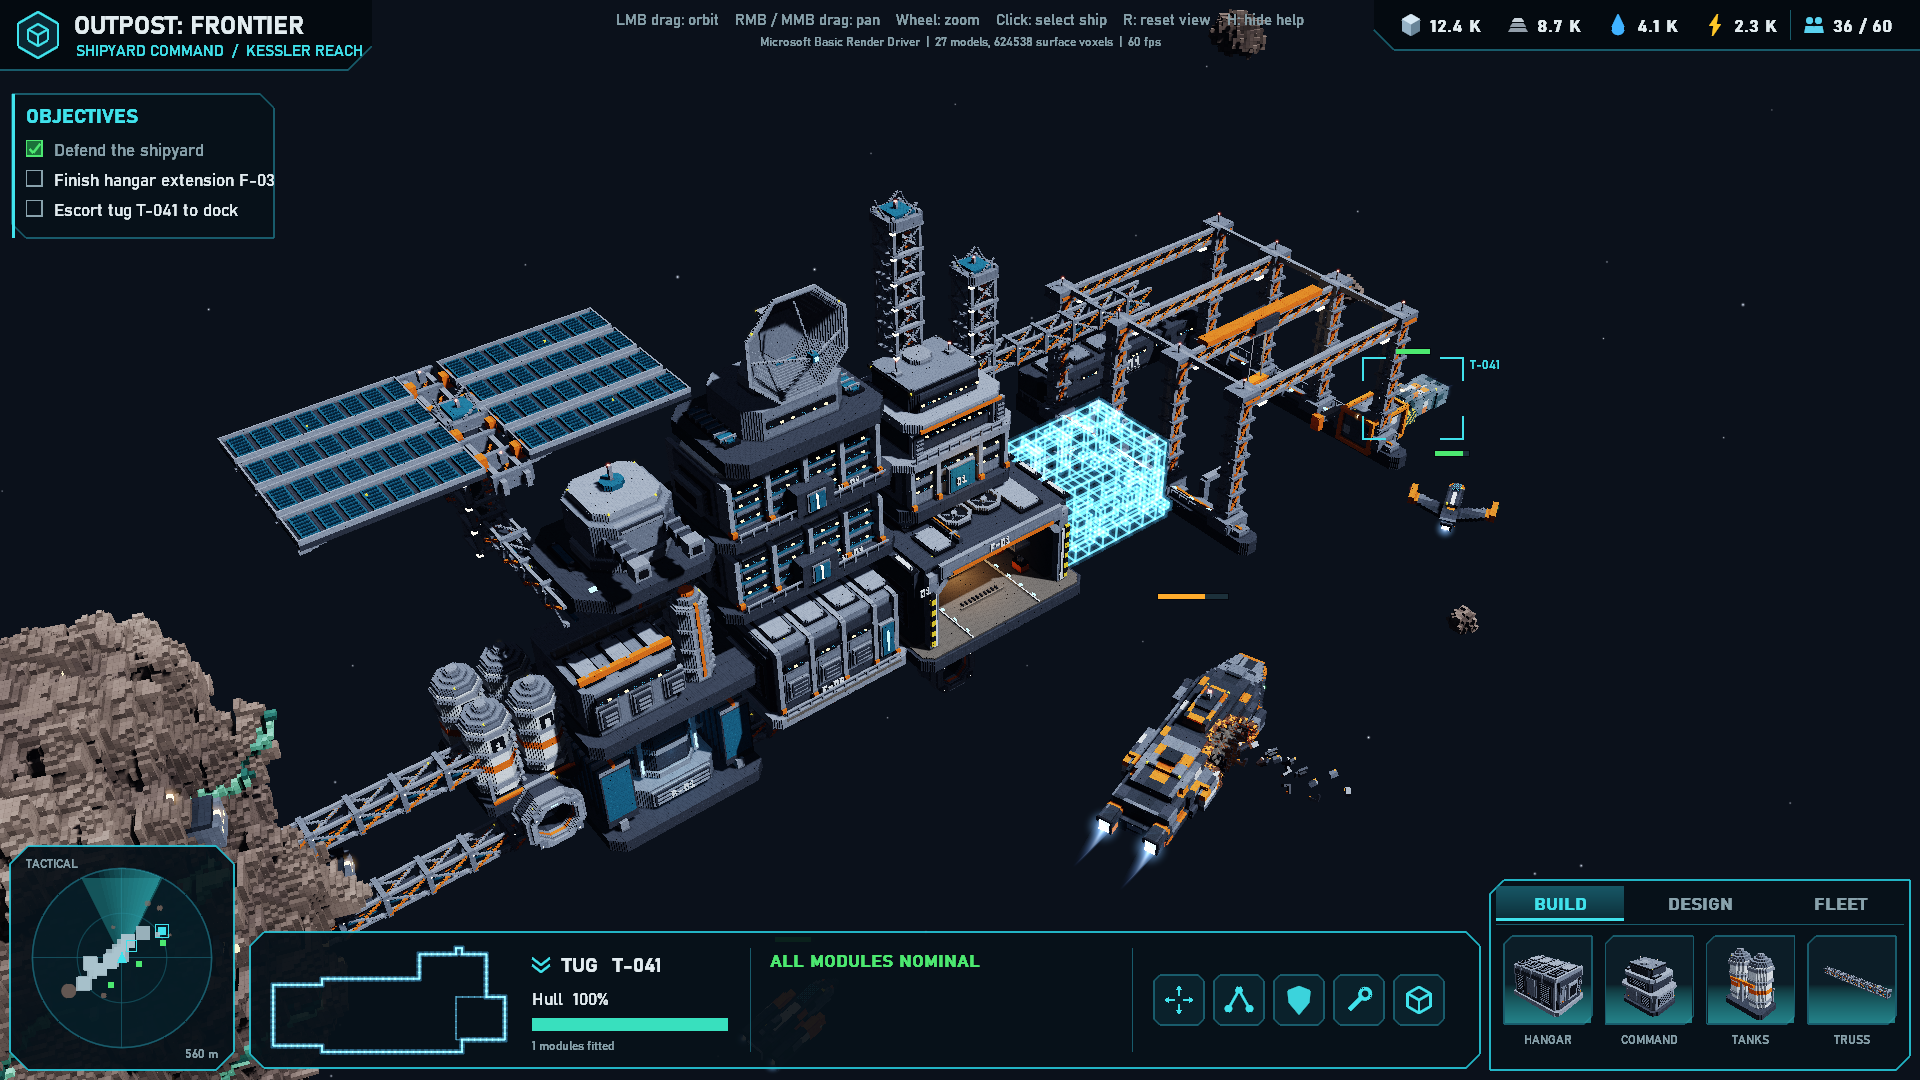
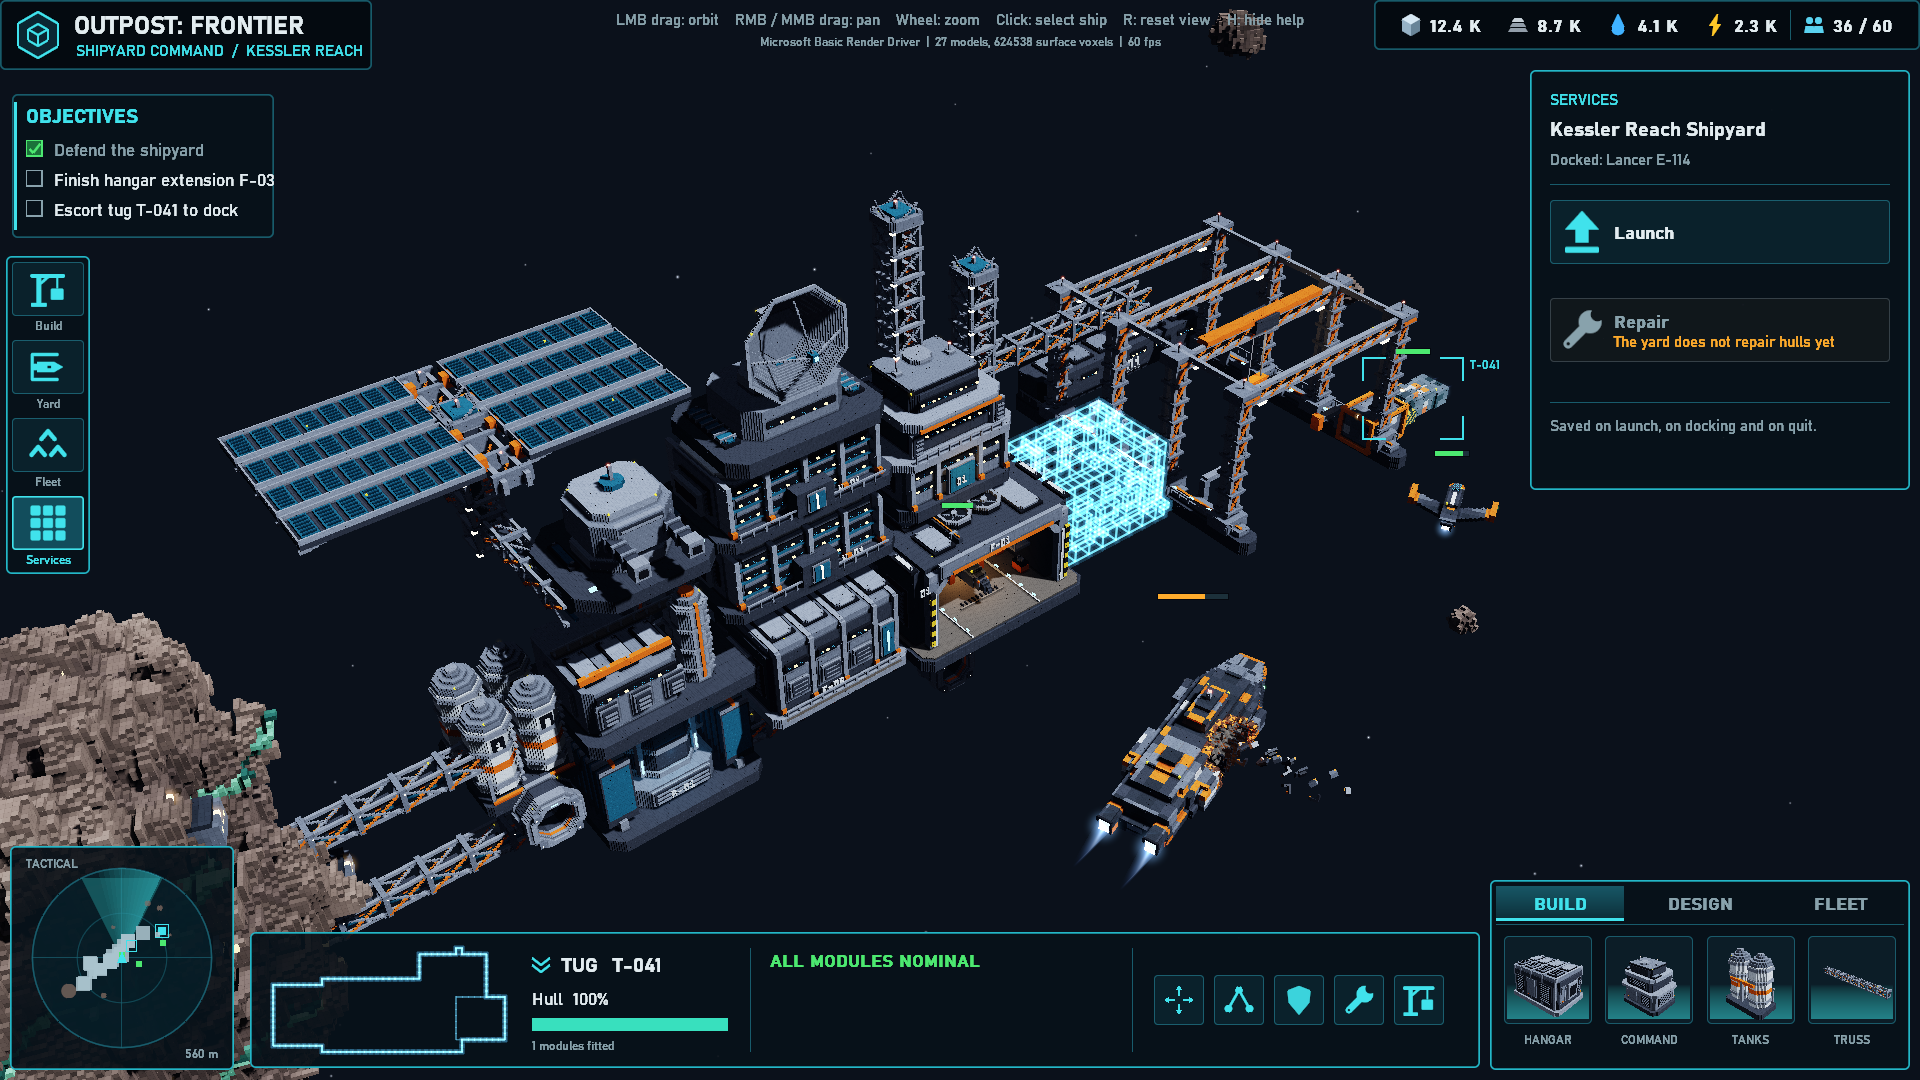
Document slice 2 so far, and store the smoke references for the docked start
The README describes the docked start, the docked view, the Dock and
Launch keys and the save, and records what was run for this branch. The
plan shows slice 2 in progress and lists ADR-024.

A new game starts docked since the docking work, so the default and
scripted smoke references showed a view the game no longer opens with.
Both were stored again on WARP (two byte-identical runs each), and the
hardware report with them; ScriptedSmoke.txt no longer presses F9. The
flight reference is marked out of date: its script must launch first.

diff --git a/Design/Measurements/SmokeBaseline.md b/Design/Measurements/SmokeBaseline.md
@@ -1,6 +1,6 @@
 # Smoke-test baseline
 
-**Taken:** 2026-11-22, first at commit `381bbc5` (F1 to F3 done), and stored again after F4, after the new station and after slice 1, for the reasons given below. **Purpose:** the reference that every change that must not alter the picture is checked against.
+**Taken:** 2026-11-22, first at commit `381bbc5` (F1 to F3 done), and stored again after F4, after the new station, after slice 1, after the signal and glazing materials and for slice 2's docked start, for the reasons given below. **Purpose:** the reference that every change that must not alter the picture is checked against.
 
 ## How it was taken
 
@@ -74,6 +74,16 @@ What the new references hold:
 - **WARP:** three default runs and two scripted runs wrote byte-identical PNGs. The statistics are 0.093, 10.6 %, 0.64 % and 0.28 % with 496 colours (default), 0.136, 22.2 %, 2.17 % and 0.68 % with 668 colours (scripted), and 0.135, 21.7 %, 2.12 % and 0.99 % with 726 colours (flight). The flight capture is again a single run.
 - **Hardware:** each RTX 3070 Ti Laptop GPU run matches its WARP report under `--expect`: 495, 668 and 729 colours.
 
+## Why it was stored again for slice 2's docked start
+
+Since slice 2's docking work, a new game starts docked at the shipyard (task 2.7), and docked is the tactical view with the docked view's section rail and Services inspector over it (task 2.5). The default run then showed the tactical view where its references held the flight view, and it failed `--expect` on every statistic: lit 25.0 % against 10.6 %. The references were stored again on branch `slice-2-dock`, at the docked view's commit `f413833`.
+
+- **Default:** the report reads `view: tactical` and `save: a new game, docked at Shipyard, saved nowhere`. The first publish is 70 messages, where it was 69: the dock status is new. No tick is predicted, because the ship is in its berth and the server holds it. The statistics are mean luminance 0.139, lit 25.0 %, cyan 2.57 % and warm 1.03 %, with 786 distinct colours.
+- **Scripted:** `ScriptedSmoke.txt` no longer presses F9, which task 2.5 removed; its click still selects the Tug. The statistics are 0.141, 25.8 %, 2.58 % and 0.73 %, with 671 colours. Against the default report it fails with exit code 9, as it should.
+- **WARP:** two runs of each wrote byte-identical PNGs.
+- **Hardware:** the RTX 3070 Ti Laptop GPU matches each WARP report under `--expect`: 788 colours against 786 (default) and 673 against 671 (scripted).
+- **The flight reference was not stored again.** `FlightSmoke.txt` assumes the game starts in flight and presses F9. It now has to launch first, which adds about 700 ticks to a run that already takes ten minutes on WARP. It is due with slice 2's close-out; until then `FlightSmokeWarp.*` are the slice 1 capture and do not describe the game.
+
 ## How to check against it
 
 ```powershell
@@ -94,7 +104,7 @@ So check a Release build with `--expect`, and use `--compare` against a capture 
 
 ## The scripted reference (plan task F5)
 
-`ScriptedSmoke.txt` drives the executable through input at fixed ticks. Since slice 1 it first presses F9 for the tactical view. It then clicks at the point where the first station had its fighter on the right; in the current station, that point selects the Tug. Then it orbits the view by dragging for 20 ticks and zooms one wheel step. The run lasts until one frame after the last input, 31 frames here.
+`ScriptedSmoke.txt` drives the executable through input at fixed ticks. A new game starts in the tactical view since slice 2, so it no longer presses F9 first. It clicks at the point where the first station had its fighter on the right; in the current station, that point selects the Tug. Then it orbits the view by dragging for 20 ticks and zooms one wheel step. The run lasts until one frame after the last input, 31 frames here.
 
 ```powershell
 .\x64\Debug\Outpost.exe --smoke-test --warp --script Design\Measurements\ScriptedSmoke.txt --expect Design\Measurements\ScriptedSmokeWarp.txt
@@ -119,6 +129,8 @@ What was checked when it was stored again, on the current station:
 - The RTX 3070 Ti Laptop GPU run matches the WARP report within the tolerance: 649 distinct colours against WARP's 650, the rest identical. So the WARP report also serves as the hardware reference.
 
 ## The flight reference (slice 1)
+
+*Out of date since slice 2's docked start: the script presses F9 and assumes a start in flight. See above.*
 
 `FlightSmoke.txt` flies the player's escort by its commands, then orders it from the tactical view. Over 480 ticks it:
 

diff --git a/Design/ImplementationPlan.md b/Design/ImplementationPlan.md
@@ -1,6 +1,6 @@
 # Outpost:Frontier — MVP implementation plan
 
-**Status:** in progress; F1 to F3 are done · **Date:** 2026-11-22
+**Status:** in progress; the foundations and slice 1 are done, slice 2 is under way · **Date:** 2026-11-22
 
 This plan turns the first six slices of [GameDesign.md](GameDesign.md) §11 into work: what to build, in which project, behind which decision, with which tests, and how to tell a slice is finished. It assumes the code as it stands at commit `d331bcf` and the rules in [AGENTS.md](../AGENTS.md), which it does not repeat. It gives no time estimates; the order and the dependencies are the plan.
 
@@ -17,7 +17,8 @@ This plan turns the first six slices of [GameDesign.md](GameDesign.md) §11 into
 | F6 Renderer baseline | Done: go | [F6-RendererBaseline.md](Measurements/F6-RendererBaseline.md). ADR-003's technique stays |
 | F7 MsQuic spike | Done | `QuicSpike` ([ADR-017](ADR/ADR-017-nuget-and-the-msquic-transport.md)). Every check passes at 10 % loss each way. At 30 % the stream stays whole, but the worst pose is 49 ticks behind |
 | Slice 1 | Done | The escort E-114 flies by cursor with a chase camera, and obeys a go-to order from the tactical view (F9). The prediction matched the server on every tick of every scripted run ([ADR-010](ADR/ADR-010-moving-instances-and-the-shadow-map.md)). The owner flew it by hand on 2026-11-22 |
-| Slices 2 to 6 | Not started | — |
+| Slice 2 | In progress: 2.1 to 2.7 and 2.5a done; 2.8 open | Zones and docking points in `Assets/Content/System.txt` (`GameCore/Zone`, `DockingPoint`, `SystemContent`). The dock request is `GameLogic/SpaceSupport`, not `Docking`, and the carry in and out is a mover inside `GameLogic/Universe`, not `GameCore/Manoeuvre`. The docked view is `GameApp/DockedView`, not `BaseView`: R2 bans the affix. The save ([ADR-011](ADR/ADR-011-character-record-and-save-format.md)) resumes the game, and a launch-fly-dock-quit-restart loop passes as a scenario test and as a scripted run on hardware. Open: the hazard warning (2.8), the flight smoke rewritten for the docked start, and the loop played by hand. Assets deploy by one post-build copy ([ADR-024](ADR/ADR-024-assets-deployed-by-a-post-build-copy.md)) |
+| Slices 3 to 6 | Not started | — |
 
 ## 1. What the MVP is
 
@@ -268,6 +269,7 @@ Content records (ADR-009) come with F4. `Scene.txt` stays the placement file; ar
 | 009 | Content records and identifiers | F4 | Which record files, typed fields, reference checking, socket classes, how `Scene.txt` divides |
 | 010 | Moving instances and the shadow map | Slice 1 | Per-frame transforms, shadow camera and redraw policy, and how it grows into cascades, with the F6 measurements |
 | 023 | The UI foundation | Slice 2 (task 2.5a) | The DDS subset read and its validation, the atlas manifest's records, colour space and straight alpha, one mip level, and how coloured sprites and nine-slice panels join the HUD batch (GameplayUiProposal.md). Numbered after 021 and 022, which asset work took |
+| 024 | Assets deployed by a post-build copy | Taken during slice 2, at the owner's request | One post-build event mirrors `Assets\` into the output directory in both configurations; asset files stop being project items. Visual Studio's up-to-date check no longer sees an asset-only edit |
 | 011 | The character record and save format | Slice 2 | Sections, content's save interface, atomic replacement, mask encoding |
 | 012 | The voxel mask and the damage event | First carve (slice 3) | The event's fields, integer application, cell order, the separation function's contract (a full fill behind it in the MVP), snapshots and brick diffs named by event (R22) |
 | 013 | Changing surfaces in the renderer | Slice 3 | Brick size, the per-frame re-extraction budget and its priority, GPU buffers per damaged instance, the upload path, and room for levels of detail, with the measurements behind them |
